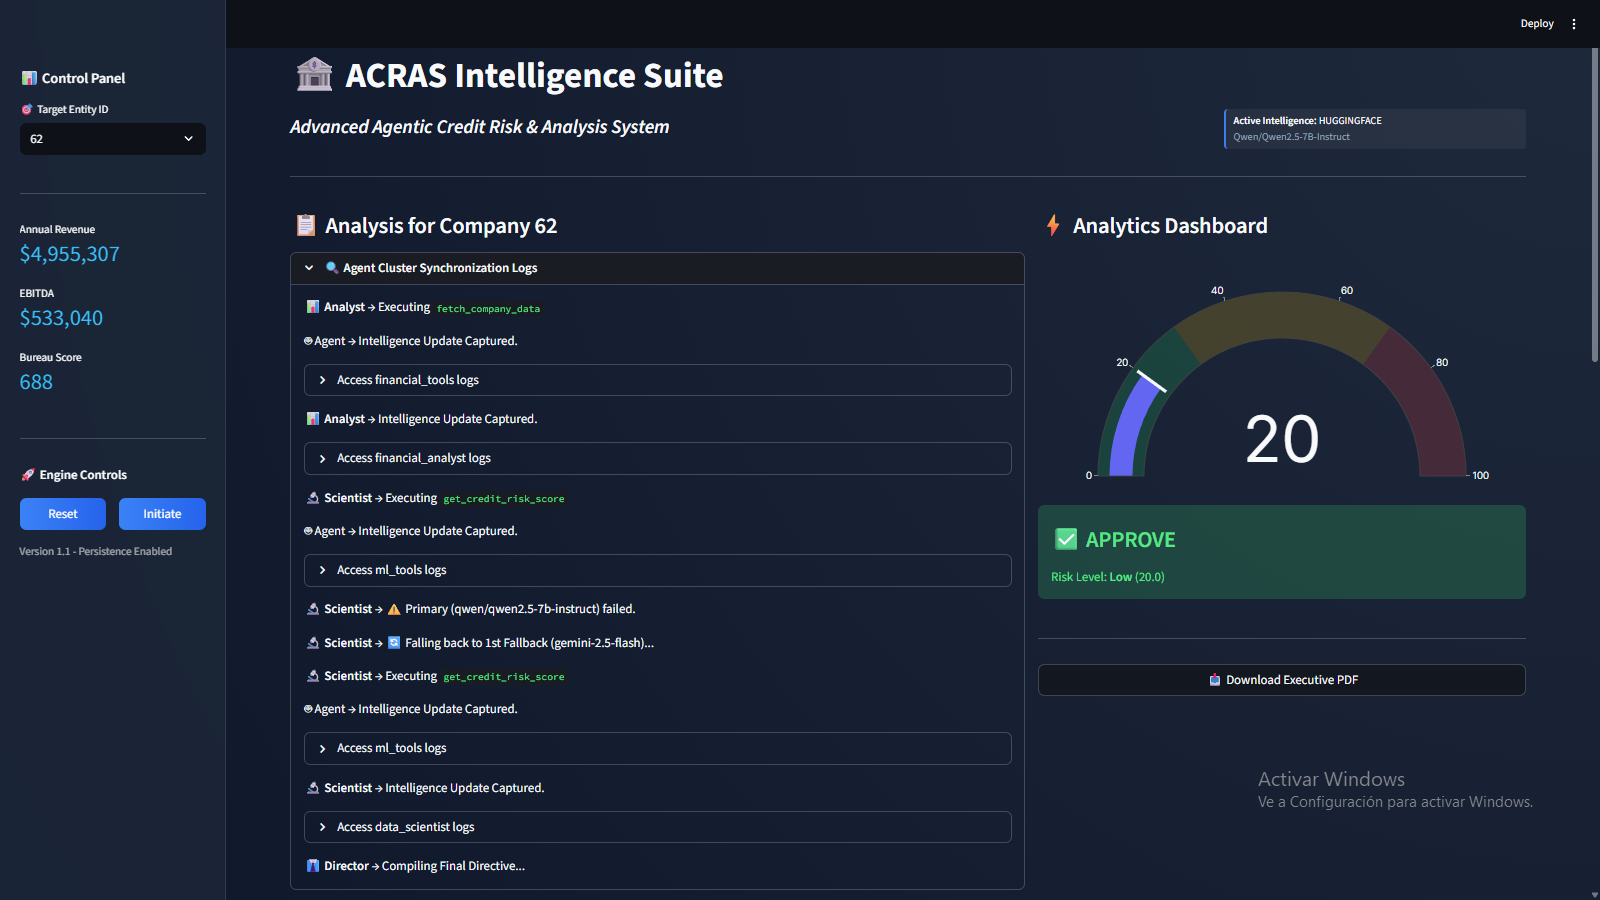
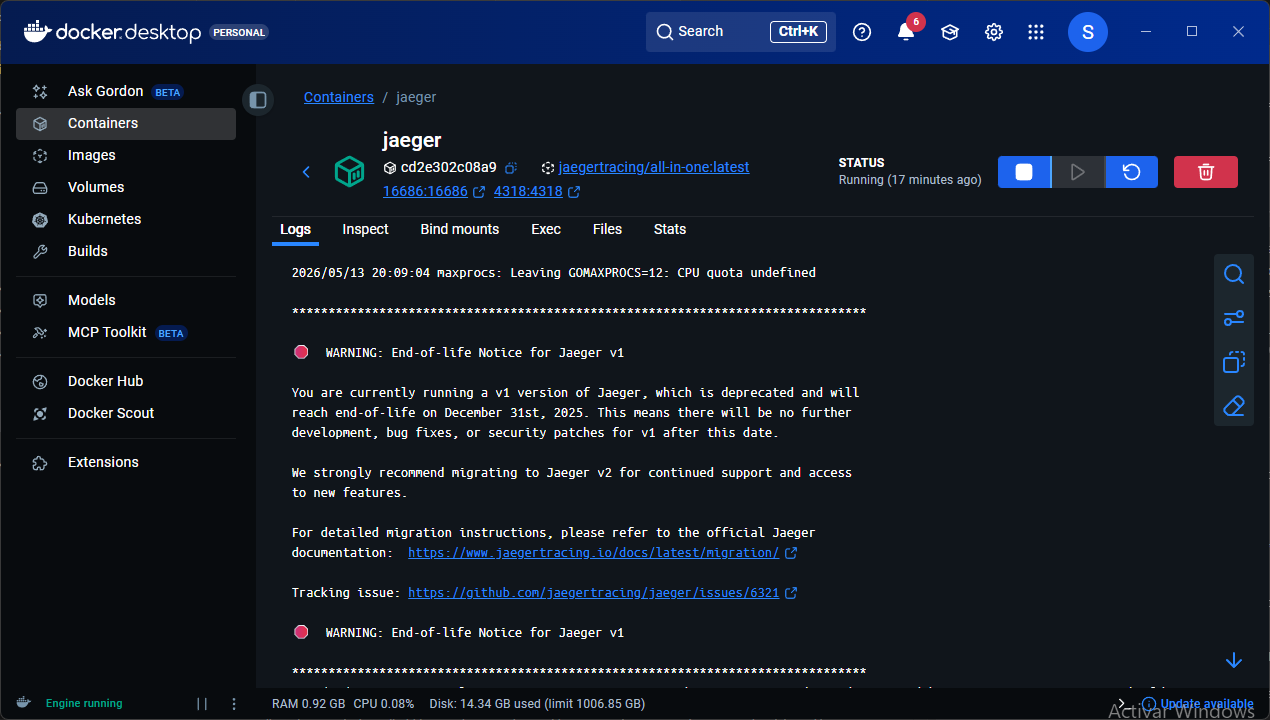
fix(agent): update default provider and resolve Pydantic schema mismatch
- Changed DEFAULT_LLM_PROVIDER to 'gemini' for better reliability in the current session.
- Added LOG_EVALS_TO_MLFLOW, OTEL_EXPORTER_OTLP_ENDPOINT, and DEBUG_TELEMETRY to AgentSettings to prevent pydantic.ValidationError when extra='forbid' is active.
- Updated project figures and reports with latest execution results.

diff --git a/src/agents/config.py b/src/agents/config.py
@@ -16,7 +16,7 @@ class AgentSettings(BaseSettings):
     # LLM Settings
     GOOGLE_API_KEY: str | None = None
     HUGGINGFACEHUB_API_TOKEN: str | None = None
-    DEFAULT_LLM_PROVIDER: Literal["gemini", "huggingface"] = "huggingface"
+    DEFAULT_LLM_PROVIDER: Literal["gemini", "huggingface"] = "gemini"
 
     # Model Names
     HF_MODEL: str = "Qwen/Qwen2.5-7B-Instruct"  # Tier 1/2 Performance (7B is more reliable for Free API)
